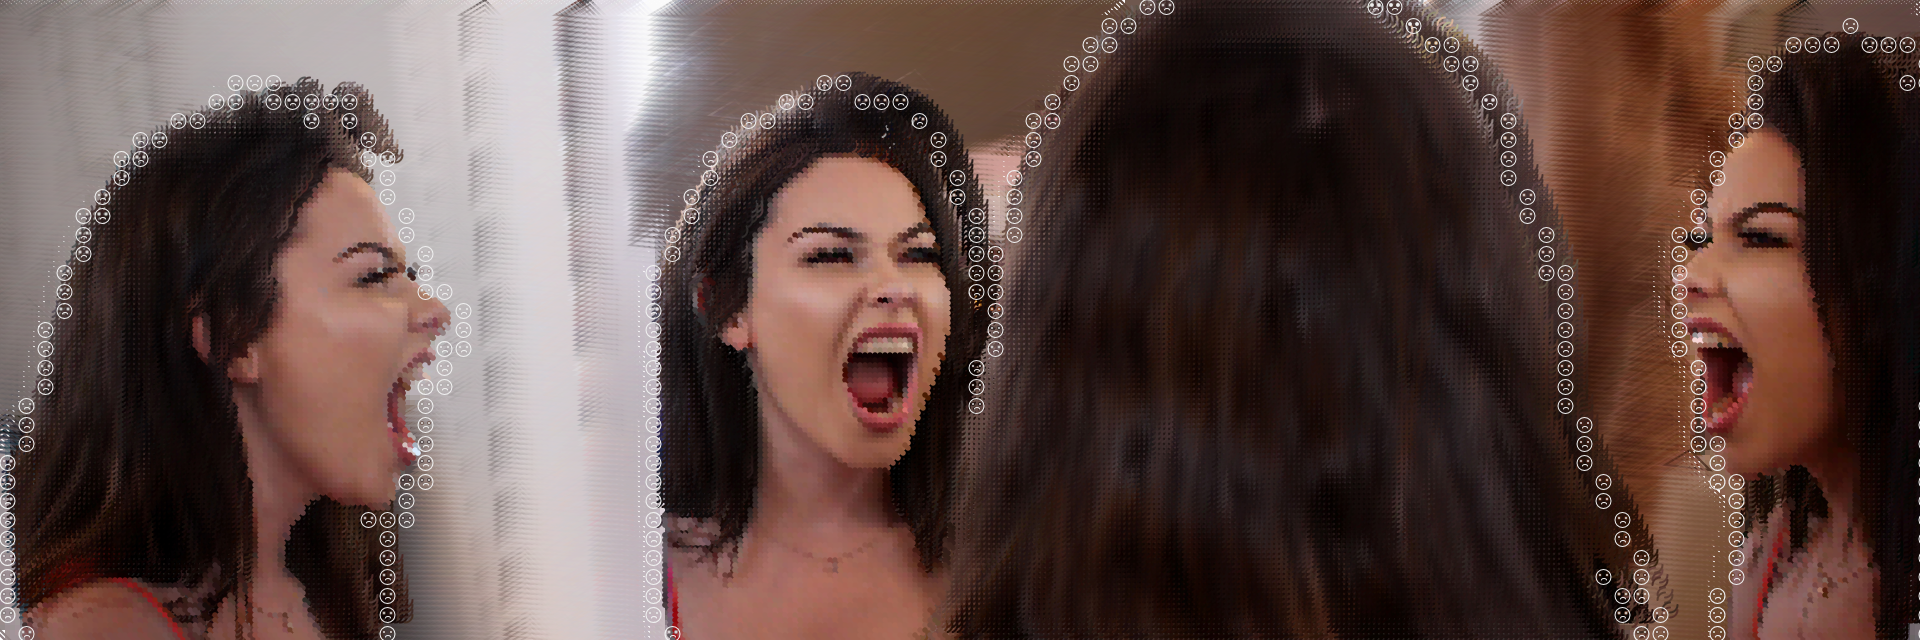
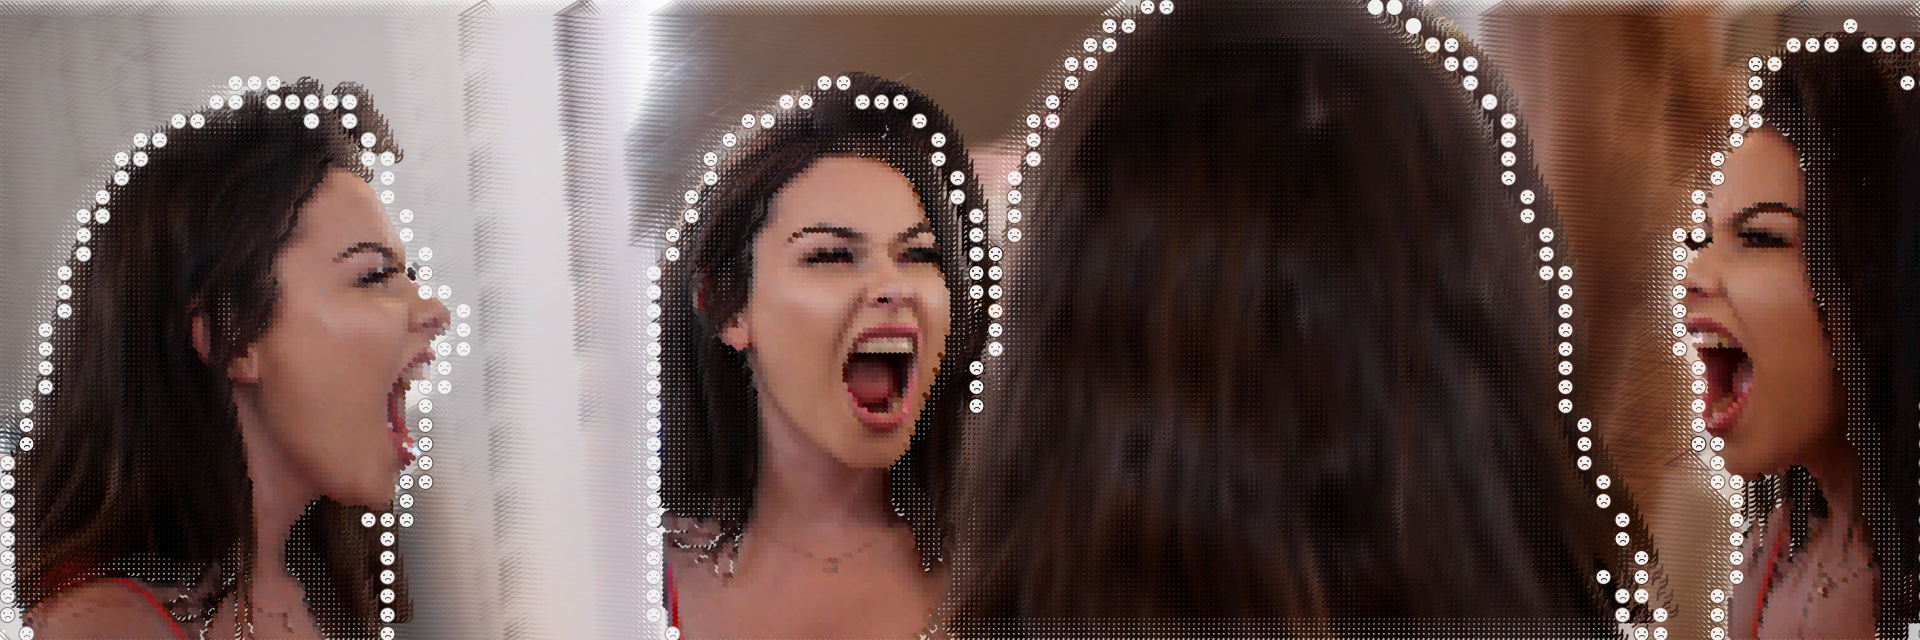
FACE INVERTED

diff --git a/sketch.js b/sketch.js
@@ -117,25 +117,31 @@ function draw() {
   //   }
 
   renderCounter = renderCounter + 1;
-  if (renderCounter > 10) {
+  if (renderCounter > 1) {
     console.log("Done!")
     noLoop();
     // UNCOMMENT TO SAVE
-    saveArtworkImage(outputFile);
+    //saveArtworkImage(outputFile);
   }
 }
 
 function drawFace(x, y, size, c) {
 
   push()
+  let pix = sourceImg.get(x, y);
   fill(c);
-  ellipse(x+4,y+5,size,size)
-  ellipse(x+11,y+5,size,size)
+
+  ellipse(x+7.5,y+7,size+12,size+12)
   stroke(c);
   strokeWeight(1)
+  //noFill()
+
+  fill(pix)
+  ellipse(x+4,y+5,size,size)
+  ellipse(x+11,y+5,size,size)
   noFill()
+  stroke(pix)
   arc(x+8, y+10, size+2, size, 180, 0);
-  ellipse(x+7.5,y+7,size+12,size+12)
   pop()
 
 }

diff --git a/README.md b/README.md
@@ -1,5 +1,5 @@
 ## Creative Coding 2: Custom Pixel
 
-ADDING FACES TO MY FILTER
+FACE INVERTED
 
-Here I am just creating an upset face to incorporate into my design. I currently have it around my outlines of the girl. I like the concept and idea of it but I'm not sure if it's working the way that I wanted it to. maybe I will try scattering them around her, or even change the way that that face looks by inverting it.
+Here I am just creating an upset face to incorporate into my design. I inverted the faces so they are more bold however I don't like this so I will go back to what I had before.
